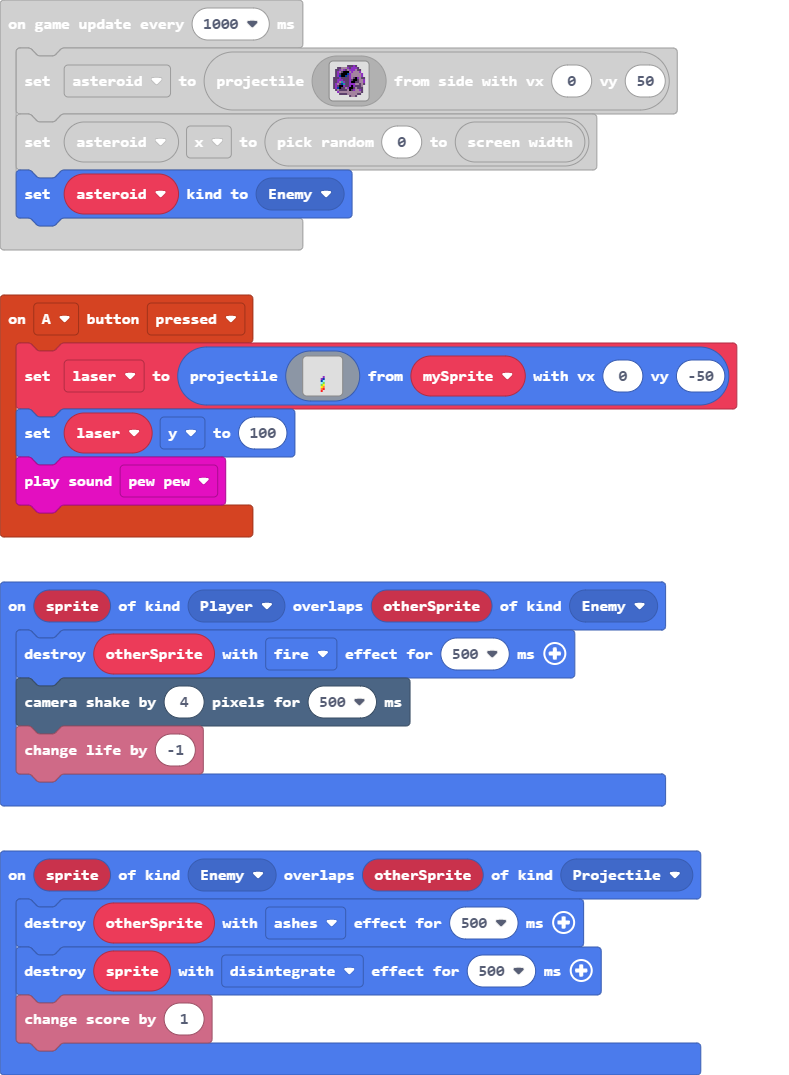
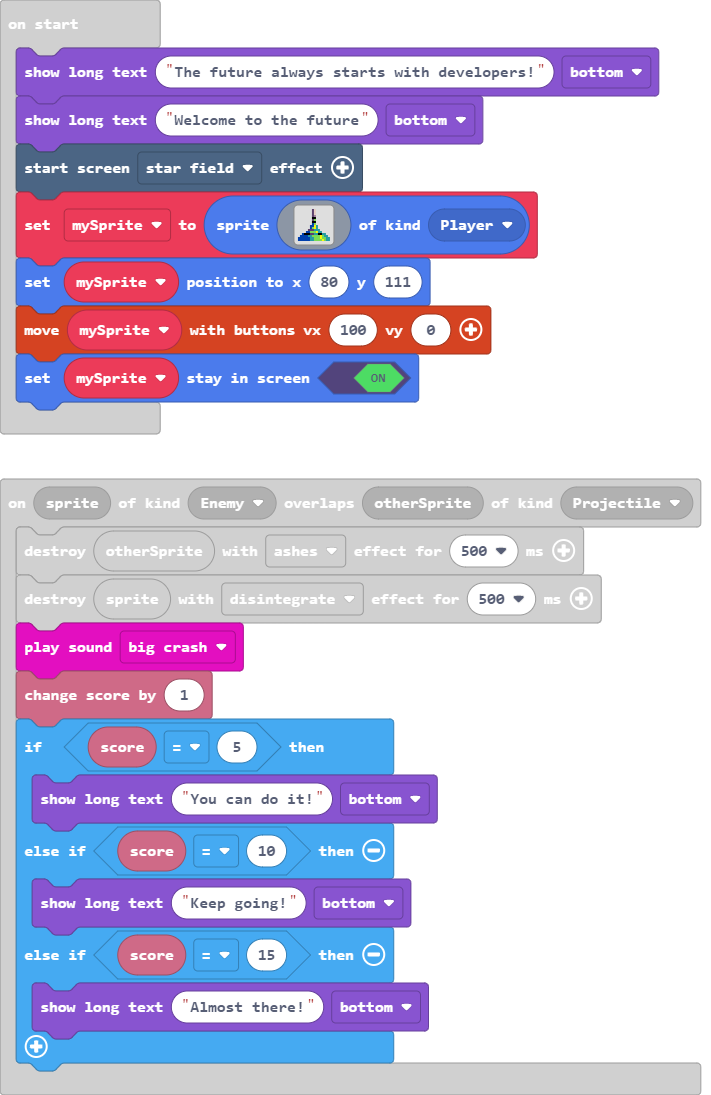
Removed annoying music

diff --git a/main.ts b/main.ts
@@ -23,7 +23,15 @@ controller.A.onEvent(ControllerButtonEvent.Pressed, function () {
 sprites.onOverlap(SpriteKind.Enemy, SpriteKind.Projectile, function (sprite, otherSprite) {
     otherSprite.destroy(effects.ashes, 500)
     sprite.destroy(effects.disintegrate, 500)
+    music.bigCrash.play()
     info.changeScoreBy(1)
+    if (info.score() == 5) {
+        game.showLongText("You can do it!", DialogLayout.Bottom)
+    } else if (info.score() == 10) {
+        game.showLongText("Keep going!", DialogLayout.Bottom)
+    } else if (info.score() == 15) {
+        game.showLongText("Almost there!", DialogLayout.Bottom)
+    }
 })
 sprites.onOverlap(SpriteKind.Player, SpriteKind.Enemy, function (sprite, otherSprite) {
     otherSprite.destroy(effects.fire, 500)
@@ -33,6 +41,8 @@ sprites.onOverlap(SpriteKind.Player, SpriteKind.Enemy, function (sprite, otherSp
 let asteroid: Sprite = null
 let laser: Sprite = null
 let mySprite: Sprite = null
+game.showLongText("The future always starts with developers!", DialogLayout.Bottom)
+game.showLongText("Welcome to the future", DialogLayout.Bottom)
 effects.starField.startScreenEffect()
 mySprite = sprites.create(img`
     . . . . . . . c d . . . . . . . 
